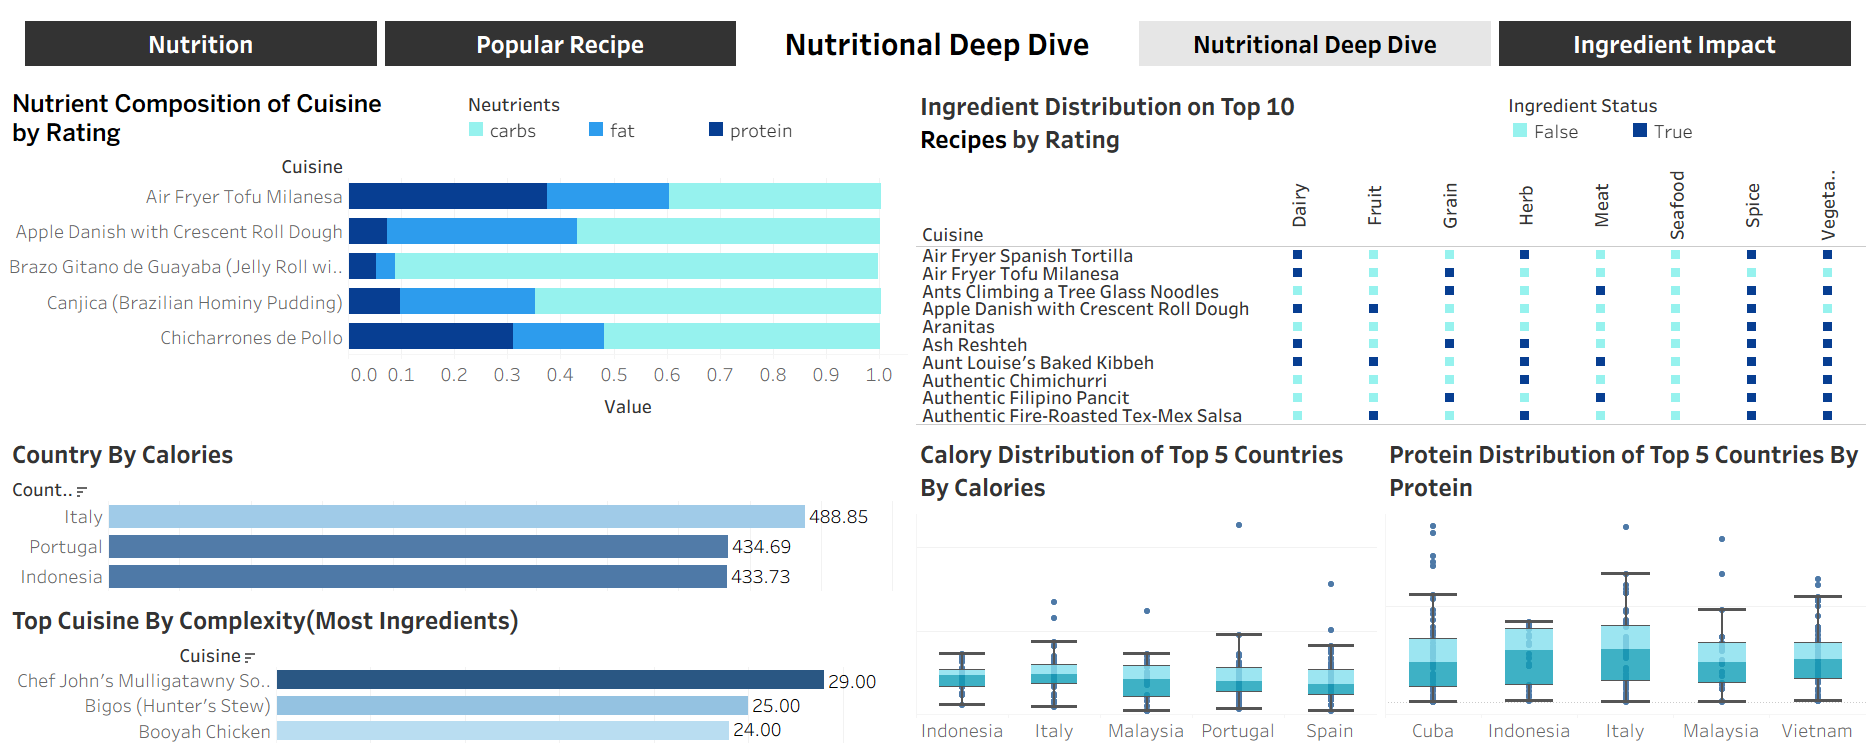
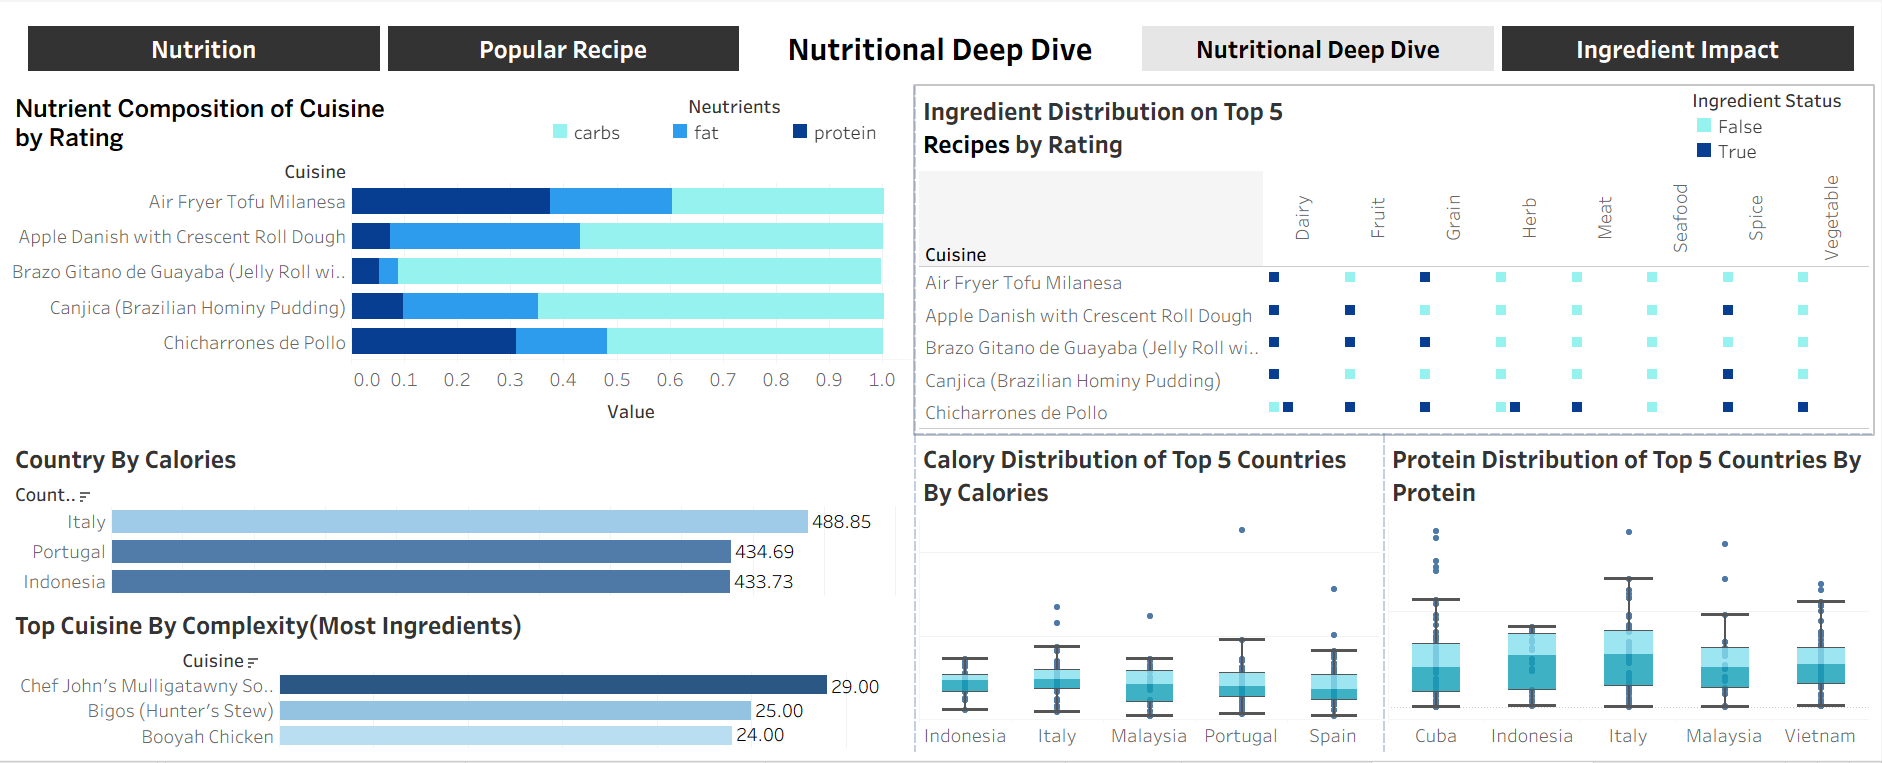
fixed reaadme

diff --git a/Readme.md b/Readme.md
@@ -112,7 +112,7 @@ This dashboard explores recipe popularity by analyzing ratings, cooking time, an
 
 **Visualizations & Features**
 
-* Scatter plot of cooking time vs. average rating, sized by recipe popularity.
+* Box-and-whisker plot comparing recipe preparation times across star ratings, showing medians, interquartile ranges, and outliers.
 * Bar chart showing the distribution of cooking times across recipes.
 * Treemap of top 10 countries by average rating and servings.
 * Pie chart of the top 10 cuisines by rating.
@@ -122,7 +122,7 @@ This dashboard explores recipe popularity by analyzing ratings, cooking time, an
 * Most recipes are completed within 60 minutes, with fewer recipes requiring extended cooking times.
 * Higher-rated recipes tend to cluster between 4–5 stars regardless of cooking time, suggesting rating is less dependent on prep duration.
 * Denmark, Australia, and Norway appear among the top countries for high-rated and widely served recipes.
-* Popular dishes include Tex-Mex Salsa, Filipino Pancit, Chimichurri, and others, showing diversity in global favorites.
+* Popular dishes include Air Fryer Tofu Milanesa, Apple Danish with Cresent Roll Dough, Canjika, and others, showing diversity in global favorites.
 
 ## Dashboard 3: Nutritional Deep Dive
 
@@ -133,7 +133,7 @@ This dashboard provides a detailed breakdown of nutrition and ingredients in top
 
 **Visualizations & Features**
 
-* Ingredient distribution matrix for top 10 recipes by rating (dairy, fruit, grain, herbs, meat, seafood, spices, vegetables).
+* Ingredient distribution matrix for top 5 recipes by rating (dairy, fruit, grain, herbs, meat, seafood, spices, vegetables).
 * Horizontal bar charts for nutrient composition (carbs, fat, protein) of cuisines by rating.
 * Country-level calorie comparison (Italy, Portugal, Indonesia leading).
 * Cuisine complexity chart showing recipes with the highest ingredient count.
